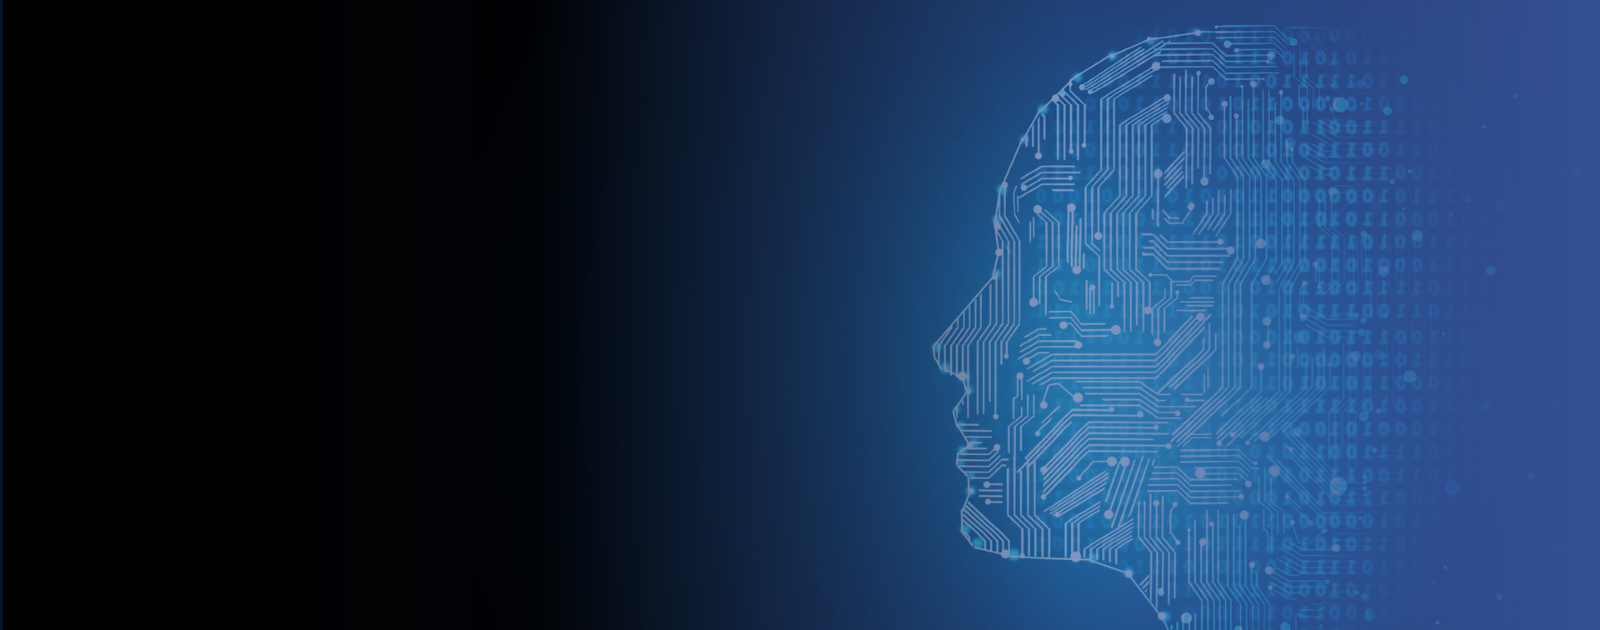
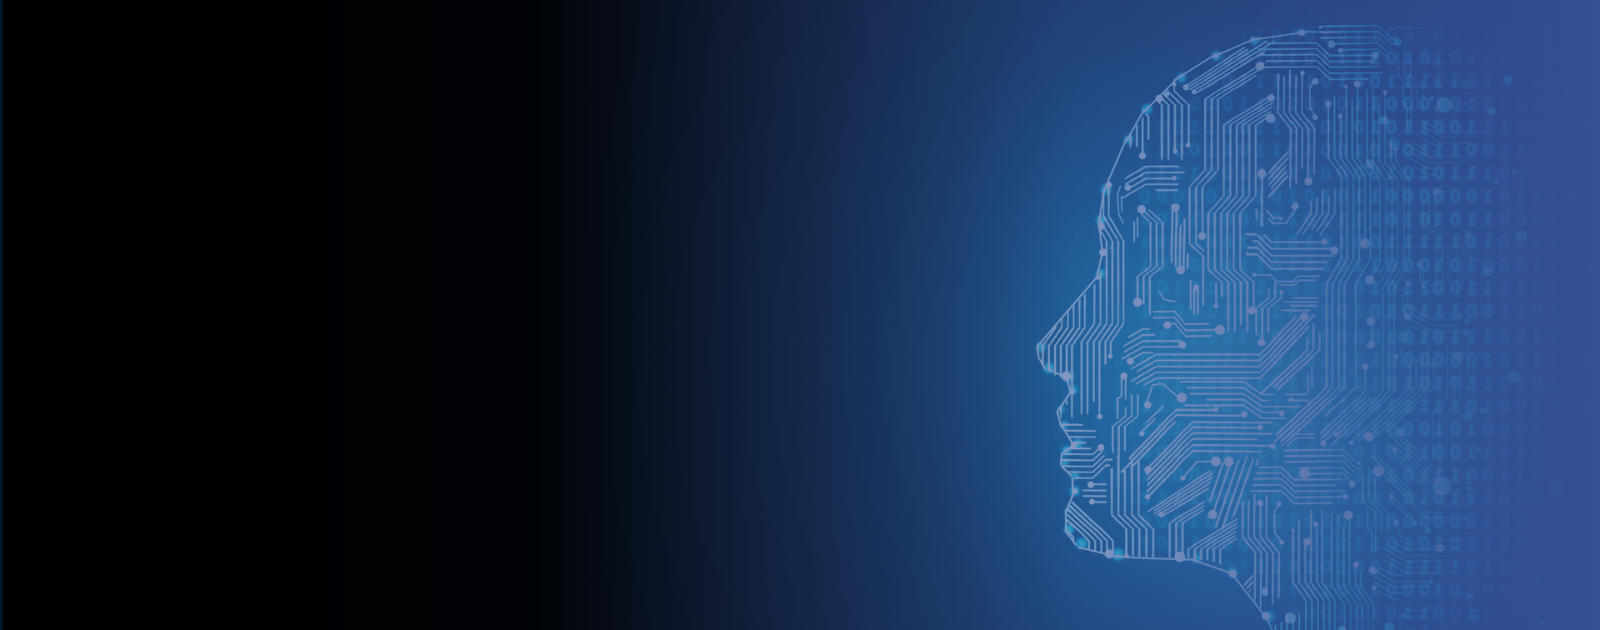
HYNIVA-WEB : Missing Button added Contect US & Replace Applied AI Banercard

Changed region(s): [[0.5625, 0.0302, 0.9062, 1.0], [0.875, 0.754, 0.9062, 0.7841]]

diff --git a/src/app/services/cloud-migration/page.tsx b/src/app/services/cloud-migration/page.tsx
@@ -100,6 +100,18 @@ function CloudMigrationHero() {
                     >
                         {cloudMigrationContent.hero.subtitle}
                     </motion.p>
+                    <motion.div
+                        variants={fadeInUp}
+                        className="mt-8"
+                    >
+                        <Link
+                            href={cloudMigrationContent.hero.contactButton.href}
+                            className="inline-flex items-center gap-2 rounded-full bg-gradient-to-r from-blue-900 to-blue-600 px-6 sm:px-8 py-3 sm:py-4 text-xs sm:text-sm font-bold uppercase tracking-wider text-white shadow-lg transition-all hover:shadow-xl hover:scale-105"
+                        >
+                            {cloudMigrationContent.hero.contactButton.text}
+                            <ArrowUpRightIcon className="h-4 w-4" />
+                        </Link>
+                    </motion.div>
                 </motion.div>
             </div>
         </section>

diff --git a/src/content/cloud-migration.ts b/src/content/cloud-migration.ts
@@ -31,7 +31,7 @@
 
 export const cloudMigrationContent = {
     hero: {
-        title: "Cloud",
+        title: "Cloud Migration",
         subtitle: "Your journey to the cloud starts here. From intelligent cloud architecture to cost-optimized strategies, Hyniva ensures seamless cloud adoption with security, agility, and performance at the core.",
         backgroundImage: "/images/Banner_cards/Cloud_Migration.png",
         contactButton: {

diff --git a/src/content/transportation-logistics.ts b/src/content/transportation-logistics.ts
@@ -91,7 +91,7 @@ export const transportationLogisticsContent = {
     cta: {
         title: "Ready to Start Your Digital Transformation? Contact Us!",
         buttonText: "Let's Go!",
-        buttonHref: "mailto:connect@hyniva.com",
+        href: "/contact",
         backgroundImage: "/images/2019/04/contact-classic.jpg",
     },
 };

diff --git a/src/content/wealth-asset-management.ts b/src/content/wealth-asset-management.ts
@@ -102,7 +102,7 @@ export const wealthAssetManagementContent = {
     cta: {
         title: "Ready to Start Your Digital Transformation? Contact Us!",
         buttonText: "Let's Go!",
-        buttonHref: "mailto:connect@hyniva.com",
+        href: "/contact",
         backgroundImage: "/images/2019/04/contact-classic.jpg",
     },
 };

diff --git a/src/content/education.ts b/src/content/education.ts
@@ -63,7 +63,7 @@ export const educationContent = {
     cta: {
         title: "Ready to Start Your Digital Transformation? Send Us An Email Today!",
         buttonText: "Let's Go!",
-        buttonHref: "mailto:connect@hyniva.com",
+        href: "/contact",
         backgroundImage: "/images/2019/04/contact-classic.jpg",
     },
 };

diff --git a/src/content/insurance.ts b/src/content/insurance.ts
@@ -77,7 +77,7 @@ export const insuranceContent = {
     cta: {
         title: "Ready to Start Your Digital Transformation? Send Us An Email Today!",
         buttonText: "Let's Go!",
-        buttonHref: "mailto:connect@hyniva.com",
+        href: "/contact",
         backgroundImage: "/images/2019/04/contact-classic.jpg",
     },
 };

diff --git a/src/content/banking.ts b/src/content/banking.ts
@@ -89,7 +89,7 @@ export const bankingContent = {
     cta: {
         title: "Ready to Start Your Digital Transformation? Send Us An Email Today!",
         buttonText: "Let's Go!",
-        buttonHref: "mailto:connect@hyniva.com",
+        href: "/contact",
         backgroundImage: "/images/2019/04/contact-classic.jpg",
     },
 };

diff --git a/src/content/salesforce.ts b/src/content/salesforce.ts
@@ -39,7 +39,7 @@ export const salesforceContent = {
         backgroundImage: "/images/2024/09/nature-landscape-background-1-scaled-e1726749512428.jpg",
         contactButton: {
             text: "Contact us!",
-            href: "mailto:connect@hyniva.com",
+            href: "/contact",
         },
     },
     intro: {

diff --git a/src/content/digital-transformation.ts b/src/content/digital-transformation.ts
@@ -117,7 +117,7 @@ export const digitalTransformationContent = {
     cta: {
         title: "Ready to get started? Contact us!",
         buttonText: "Let's Go!",
-        buttonHref: "mailto:connect@hyniva.com",
+        href: "/contact",
         backgroundImage: "/images/2019/04/contact-classic.jpg",
     },
 };

diff --git a/src/content/microsoft-services.ts b/src/content/microsoft-services.ts
@@ -116,7 +116,7 @@ export const microsoftServicesContent = {
     cta: {
         title: "Ready to Get Started? Contact us!",
         buttonText: "Let's Go!",
-        buttonHref: "mailto:connect@hyniva.com",
+        href: "/contact",
         backgroundImage: "/images/2019/04/contact-classic.jpg",
     },
 };

diff --git a/src/content/aws-cloud-services.ts b/src/content/aws-cloud-services.ts
@@ -134,7 +134,7 @@ export const awsCloudServicesContent = {
     cta: {
         title: "Ready to Get Started? Contact us!",
         buttonText: "Let's Go!",
-        buttonHref: "mailto:connect@hyniva.com",
+        href: "/contact",
         backgroundImage: "/images/2019/04/contact-classic.jpg",
     },
 };

diff --git a/src/content/product-development.ts b/src/content/product-development.ts
@@ -89,7 +89,7 @@ export const productDevelopmentContent = {
     cta: {
         title: "Ready to get started? Contact us!",
         buttonText: "Let's Go!",
-        buttonHref: "mailto:connect@hyniva.com",
+        href: "/contact",
         backgroundImage: "/images/2019/04/contact-classic.jpg",
     },
 };
